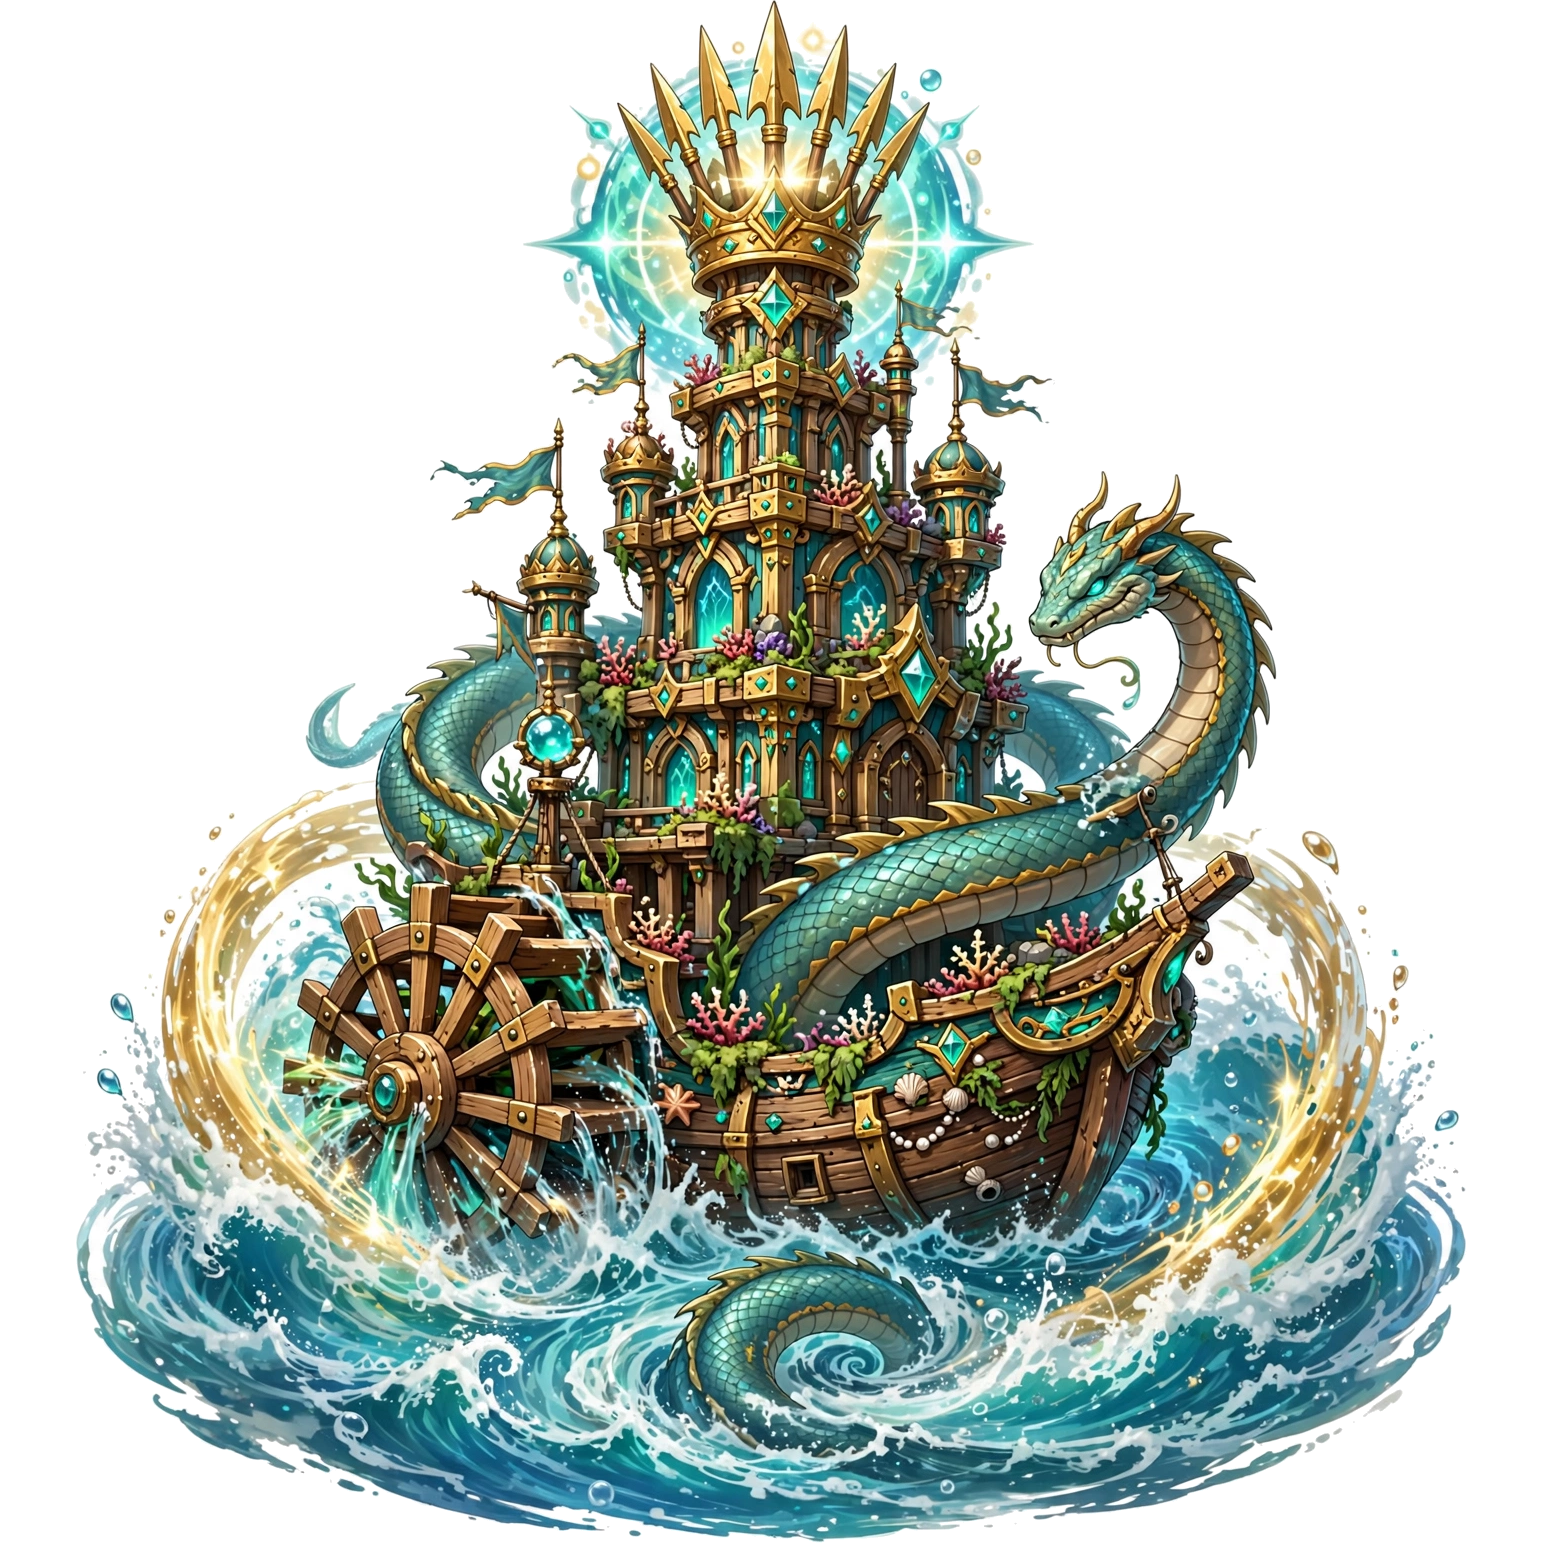
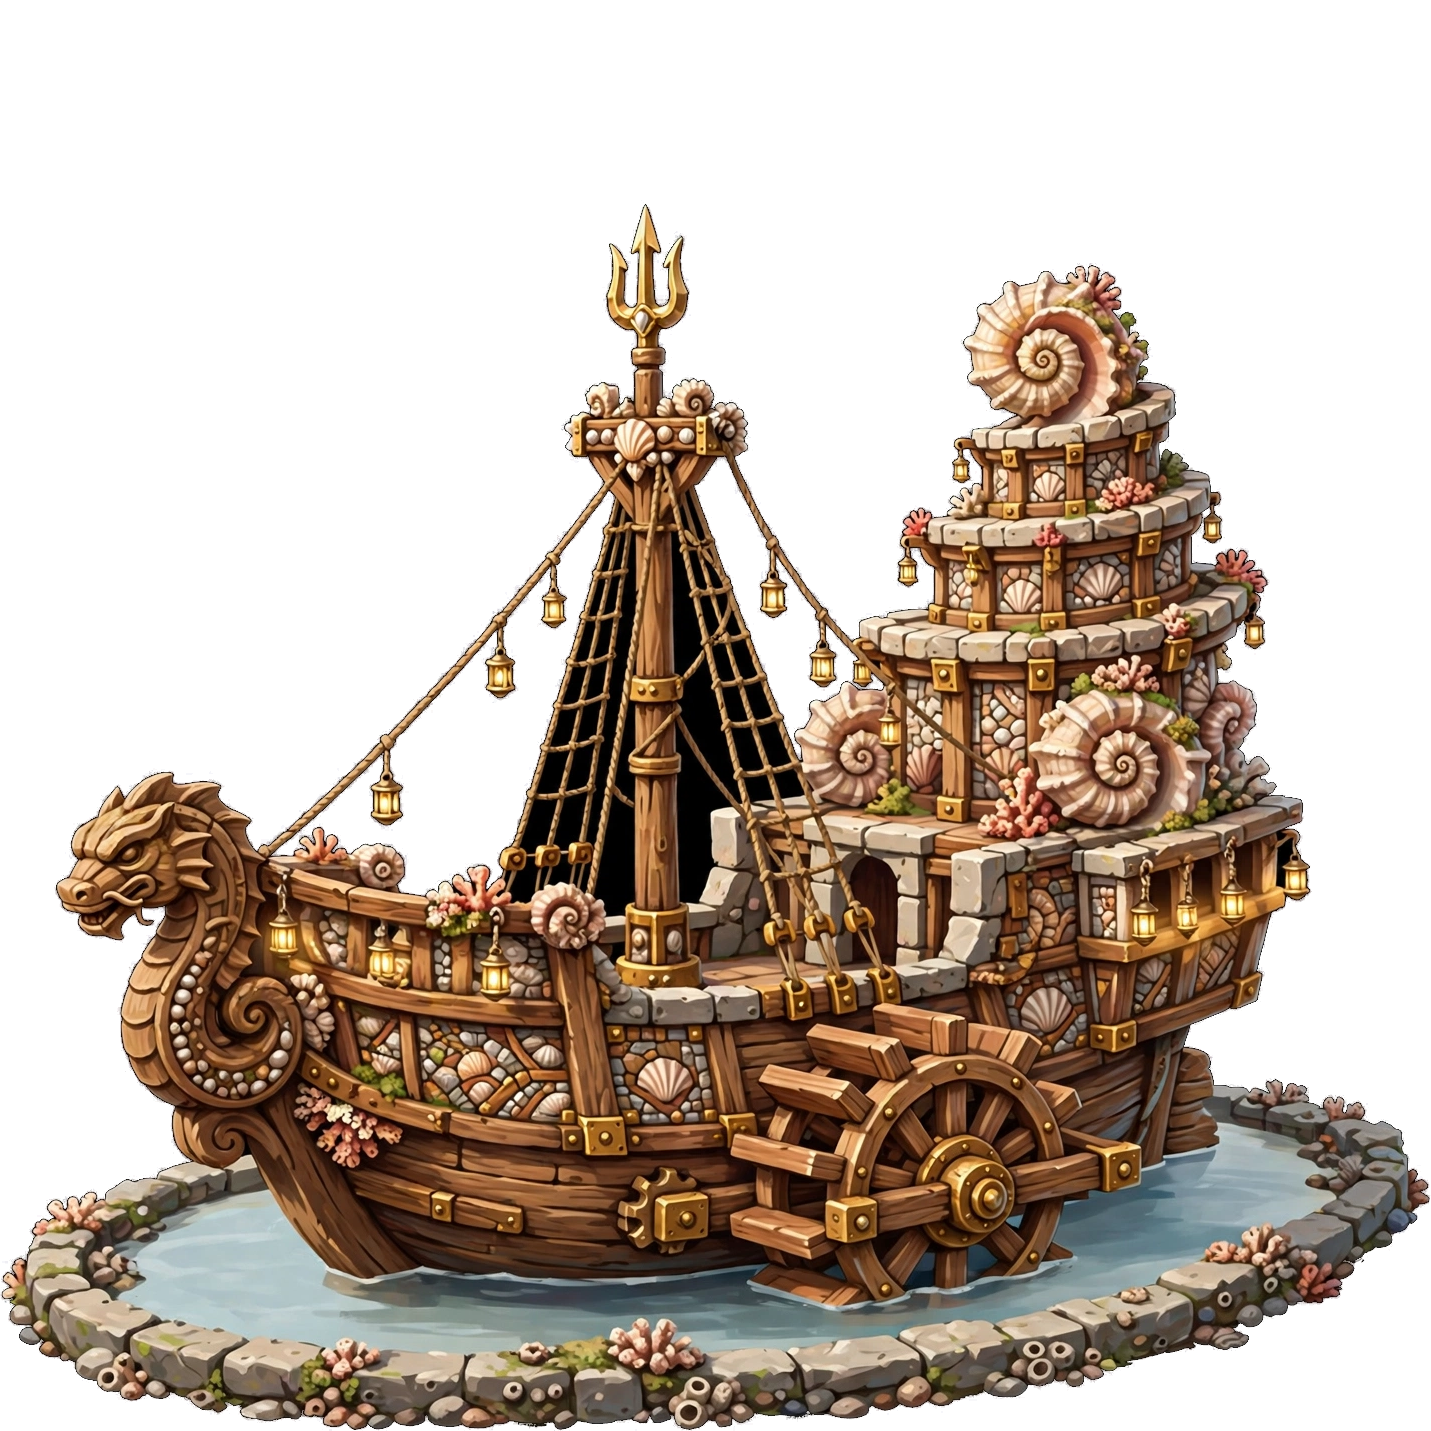
Ascended swap: Leviathan Sovereign (tidecaller) — owner-approved shell-galleon art, muzzle [-3,-65], width fraction 1.0

diff --git a/tests/browser/tidecaller-muzzles.spec.js b/tests/browser/tidecaller-muzzles.spec.js
@@ -32,9 +32,9 @@ mkdirSync(QA, { recursive: true });
 
 // Phase 1 grounded values (measurements.json), [dx, dy] at the
 // 80px reference render. The ascended entry is grounded on the
-// CURRENT ascended art (the crown burst, [0, -71]) — the staged
-// replacement art is held out pending the owner's call, so its
-// value ([-3, -65]) is deliberately NOT pinned here.
+// swapped-in Leviathan Sovereign art (owner-approved ascended
+// swap, 2026-10-21) — the trident masthead, [-3, -65]. (The
+// original art grounded on its crown burst at [0, -71].)
 const EXPECTED = {
   "0-0-0": [-24, -38], "0-0-1": [-30, -39], "0-0-2": [-29, -38],
   "0-0-3": [-7, -58], "0-1-0": [-31, -41], "0-1-1": [-30, -49],
@@ -44,7 +44,7 @@ const EXPECTED = {
   "1-0-3": [-32, -34], "1-1-0": [-30, -40], "1-2-0": [-35, -46],
   "1-3-0": [-30, -38], "2-0-0": [-25, -39], "2-0-1": [-27, -40],
   "2-1-0": [-21, -36], "3-0-0": [-14, -30], "3-0-1": [-16, -26],
-  "3-1-0": [-18, -30], ascended: [0, -71],
+  "3-1-0": [-18, -30], ascended: [-3, -65],
 };
 const OLD_FALLBACK = [-26, -30];
 // Every state is sampled in-game: all three paths tier by tier
@@ -331,7 +331,7 @@ test("tidecaller shots leave from each state's own muzzle", async ({
   expect(errors).toEqual([]);
 });
 
-test("ascended tidecaller fires from the crown burst of its current art", async ({
+test("ascended tidecaller fires from the trident masthead of its swapped-in art", async ({
   page,
 }) => {
   test.setTimeout(180000);
@@ -347,7 +347,7 @@ test("ascended tidecaller fires from the crown burst of its current art", async 
   const origin = await fireAndCapture(page, built);
   // The ascended carries no pointing weapon, so it never
   // mirrors: the visual muzzle IS the canonical one, grounded
-  // on the current art's crown burst ([0, -71]).
+  // on the swapped-in art's trident masthead ([-3, -65]).
   const want = towerMuzzle({
     type: "tidecaller",
     x: built.x,

diff --git a/src/data/towers.js b/src/data/towers.js
@@ -1028,6 +1028,11 @@ export const STATE_MUZZLES = {
   // on the CURRENT ascended art ([0, -71], the crown burst
   // center) — a staged replacement artwork exists but is held
   // out pending the owner's call; its muzzle differs ([-3, -65]).
+  // SWAPPED 2026-10-21: the owner approved the staged replacement
+  // (the shell-galleon "New boat"); the ascended entry below is
+  // grounded on the swapped-in art — the trident masthead →
+  // [-3, -65]. (The original Leviathan Sovereign entry was
+  // [0, -71], the crown burst center.)
   tidecaller: {
     "0-0-0": [-24, -38],
     "0-0-1": [-30, -39],
@@ -1054,7 +1059,7 @@ export const STATE_MUZZLES = {
     "3-0-0": [-14, -30],
     "3-0-1": [-16, -26],
     "3-1-0": [-18, -30],
-    ascended: [0, -71],
+    ascended: [-3, -65],
   },
   // Grove (structure-first redo, 2026-10-21): every state
   // measured on its own artwork. Grove had NO per-state table
